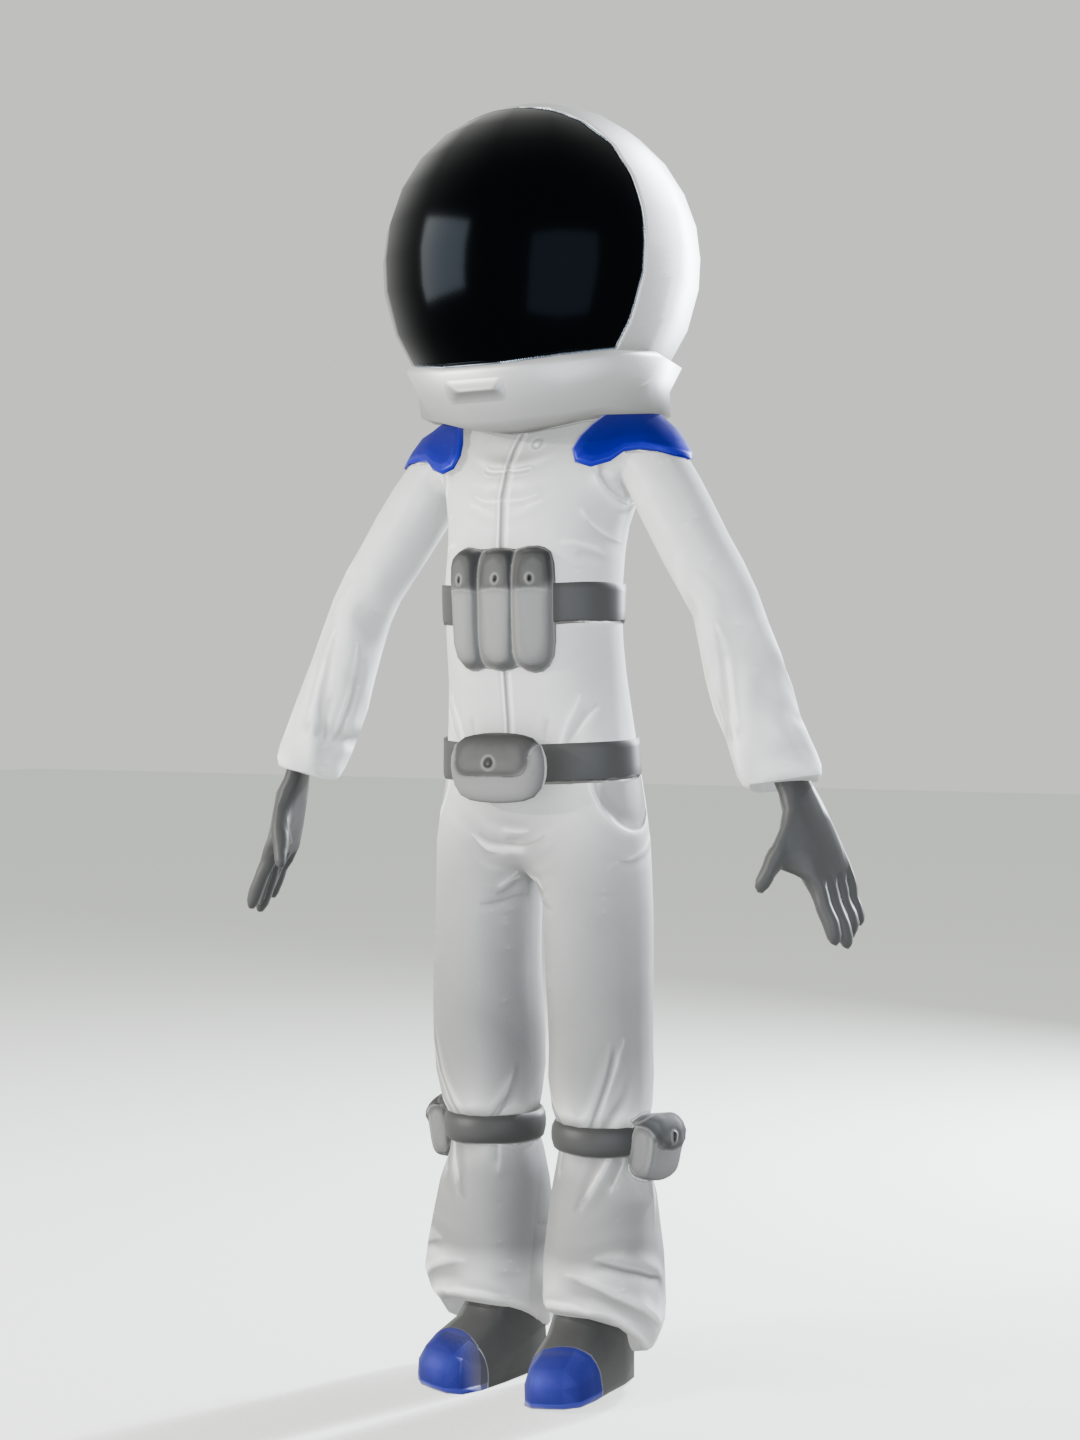
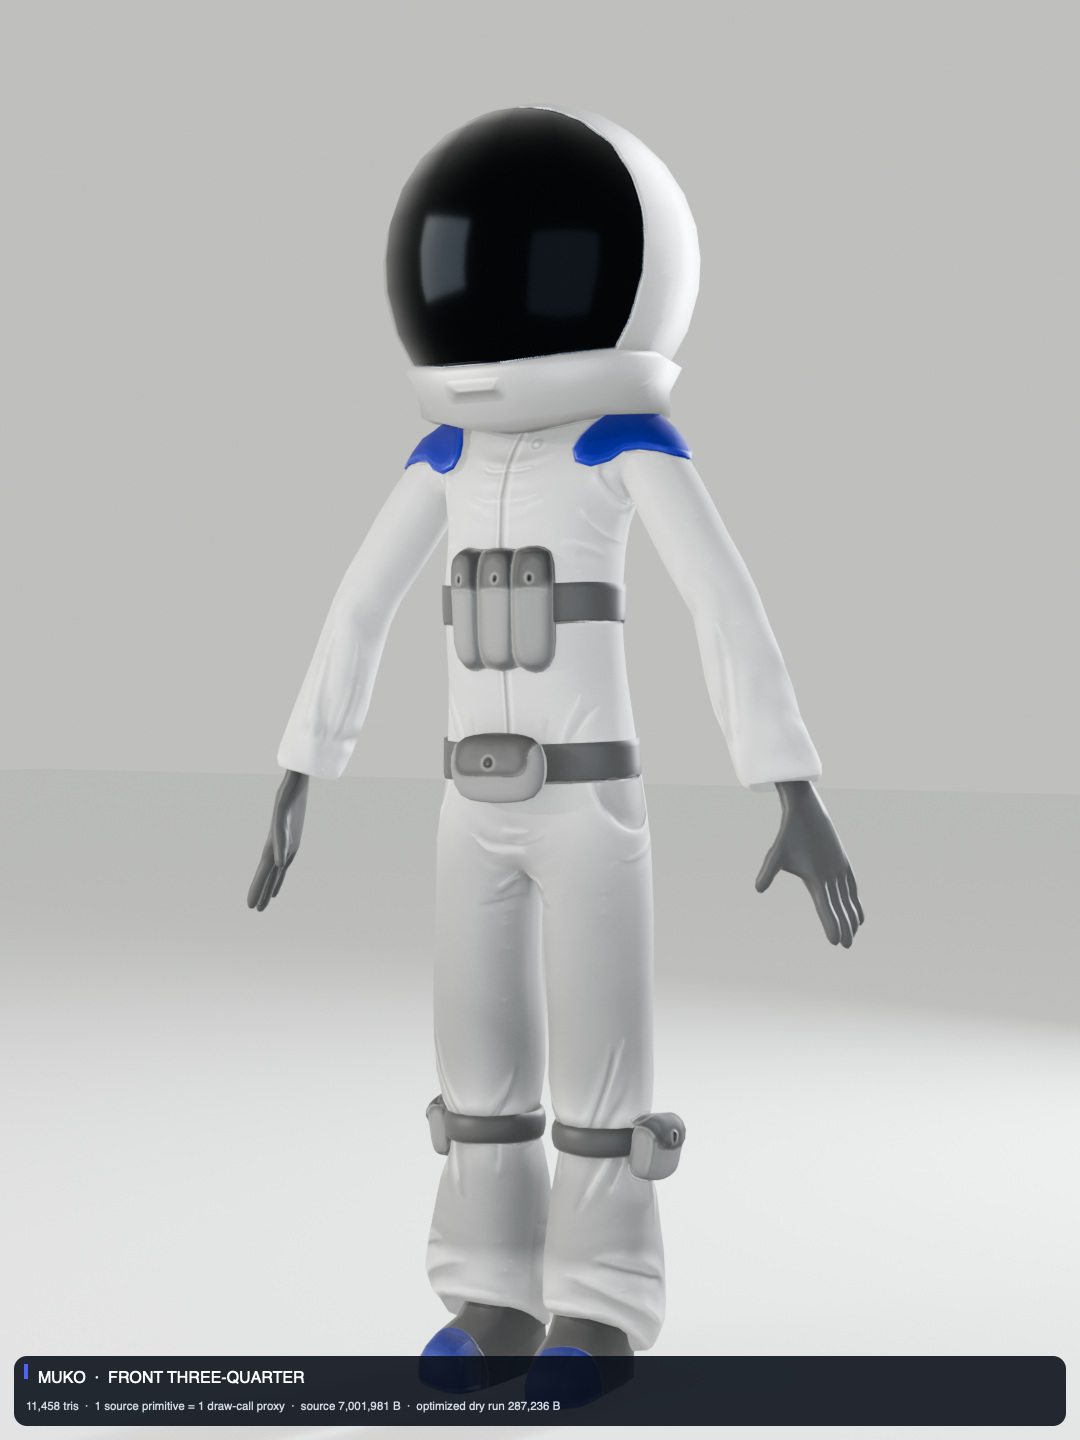
assets: select immersive guide model

Changed region(s): [[0.0, 0.9375, 1.0, 1.0]]

diff --git a/docs/qa/immersive/gate-a-model.md b/docs/qa/immersive/gate-a-model.md
@@ -1,0 +1,78 @@
+# Gate A — guide model selection
+
+**Status:** PASS  
+**Judge:** Codex  
+**Selected source:** Muko_Art, *Astronaut character stylized rigged free model*  
+**Rejected fallback:** Quaternius, *Universal Base Characters — Superhero Male*
+
+## Decision
+
+Muko advances to production adaptation. It is the only candidate that already
+reads as the required abstract metaverse guide in the actual hero and mobile
+crops: the helmet supplies a large graphic head, the opaque visor removes the
+uncanny-face problem, the existing suit accepts the product palette, and the
+chest/belt architecture gives the milestone hardware a credible attachment
+point. It looks like a character with a role, not a dressed-up avatar.
+
+This PASS selects a source mesh. It does **not** approve the contact-sheet
+material treatment as final art, publish a production GLB, or waive the Task 4
+renderer, asset-budget, pose, poster, and fitted-prop gates.
+
+## Scored comparison
+
+Scores use a 1–5 scale, where 5 means the candidate satisfies the criterion
+with little structural invention and 1 means it conflicts with the direction.
+
+| Criterion | Muko | Quaternius | Judgment |
+|---|---:|---:|---|
+| Silhouette | 5 | 2 | Muko's helmet and compact outfitted body read immediately; Quaternius is a generic anatomical base. |
+| Friendly/default read | 4 | 1 | Muko is abstract and approachable; Quaternius's realistic fixed face triggers the uncanny/game-NPC rejection. |
+| Hero/mobile crop strength | 5 | 2 | Muko keeps its identity at both crops; Quaternius becomes a cropped torso and face with no product-world signal. |
+| Material response | 4 | 3 | Muko's visor, shell, and collar accents separate cleanly; both candidates still need production material tuning. |
+| Rig usefulness | 4 | 4 | Both expose the required humanoid semantics; neither supplies authored motion. |
+| Fitted-prop feasibility | 5 | 1 | Muko already has helmet, collar, chest, and belt attachment logic; Quaternius requires a new outfit and helmet. |
+| Light/dark parity | 4 | 2 | Muko keeps readable volume in both scenes; dark-mode rim/visor separation still needs deliberate tuning. |
+| Budget headroom | 5 | 5 | Both clear the raw ceilings; Muko starts lower and avoids the geometry cost of inventing the whole silhouette. |
+| **Total / 40** | **36** | **20** | **Muko wins on rendered merit and lower art-direction risk.** |
+
+## Evidence
+
+- Technical comparison: [`model-inspection.md`](./model-inspection.md)
+- Frozen source metadata: [`source-manifests/muko.json`](./source-manifests/muko.json)
+- Exact source license notice: [`source-manifests/muko-LICENSE.txt`](./source-manifests/muko-LICENSE.txt)
+- Muko hero crop: [`contact-sheets/muko-hero1440.png`](./contact-sheets/muko-hero1440.png)
+- Muko mobile crop: [`contact-sheets/muko-mobile390.png`](./contact-sheets/muko-mobile390.png)
+- Muko light/dark reads: [`contact-sheets/muko-light.png`](./contact-sheets/muko-light.png), [`contact-sheets/muko-dark.png`](./contact-sheets/muko-dark.png)
+- Rejected-candidate hero/mobile evidence: [`contact-sheets/quaternius-hero1440.png`](./contact-sheets/quaternius-hero1440.png), [`contact-sheets/quaternius-mobile390.png`](./contact-sheets/quaternius-mobile390.png)
+
+## Rejection record — Quaternius
+
+The freely available archive does not contain the Regular/Teen model named in
+the original fallback; it supplies the Superhero base instead. That render has
+a realistic fixed face and effectively unclothed silhouette, triggering two
+explicit Gate A rejection conditions: uncanny/game-NPC read and a requirement
+for grafted replacement architecture. Its sound rig and acceptable raw budget
+do not compensate for rebuilding the character's entire visual identity.
+
+## Task 4 obligations carried forward
+
+- Normalize the baked 0.01 conversion hierarchy to the world scene's authored
+  units without breaking skinning.
+- Build all required gestures procedurally; the source contains only a
+  zero-duration bind-pose clip.
+- Resolve the thin white visor-rim seam visible at extreme profile.
+- Author the final opaque graphite visor, porcelain shell, release-blue
+  underlayer, and fitted coral milestone hardware. Headset and pager must read
+  as integrated parts of the suit, never floating or runtime-grafted props.
+- Tune a friendly default pose and legible wave, board-guide, drag-watch,
+  milestone/pager, celebration, and resolution reactions at the real crops.
+- Preserve dark-scene silhouette separation with authored rim and material
+  response; do not rely on exposure alone.
+- Produce and measure the final local GLB: no more than 25k triangles, 30 R3F
+  renderer draw calls, 1.8 MB transferred, and 512–1024px textures.
+- Preserve creator, source URL, CC-BY-4.0 text, original/final hashes, and the
+  modification record in the repository. Per Garvit's product decision, no
+  visible site credit is required.
+
+Gate A is released. Scene 1 may begin from this selected source; the public
+homepage remains blocked until the later composition and world gates pass.

diff --git a/.superpowers/sdd/2026-08-17-immersive-product-world/task-1-report.md b/.superpowers/sdd/2026-08-17-immersive-product-world/task-1-report.md
@@ -1,8 +1,12 @@
 # Task 1 acquisition and inspection report
 
-Status: evidence prepared; Codex selection pending.
+Status: Gate A evidence complete; Codex selected Muko with a 36/40 PASS.
 
 Base: `4364525` in `/Users/garvits/Documents/Side-Projects/Garvit-Portfolio-July`.
+
+## Gate A decision
+
+Codex selected Muko_Art's *Astronaut character stylized rigged free model* at 36/40 and rejected the free Quaternius Superhero Male fallback at 20/40. This is source selection only: final material treatment, fitted hardware, procedural reactions, scale normalization, renderer draw calls, transfer size, posters, and production GLB approval remain Task 4 gates.
 
 ## Commands and versions
 
@@ -26,6 +30,7 @@ Quaternius was downloaded through the official itch.io zero-price Standard uploa
 - Muko: Muko_Art, CC-BY-4.0, canonical model `c8daa753952e454eb3c6195446751e88`. Package metadata lacks a revision/date, so all five source component hashes are the immutable revision record; see `docs/qa/immersive/source-manifests/muko.json`.
[1 lines of base64/hex data omitted]
 - No source archive or candidate GLB was copied into the repository. Temporary preview GLBs stay under `/private/tmp/garvit-guide-source/optim/`.
[1 lines of base64/hex data omitted]
 
 ## Measurements
 
@@ -35,7 +40,7 @@ Quaternius was downloaded through the official itch.io zero-price Standard uploa
 
 ## Render outputs
 
-Seven PNGs per candidate are in `docs/qa/immersive/contact-sheets/`: one unmodified neutral source read plus front-three-quarter, profile, 1440 hero, 390 mobile, light, and dark test-palette views. `model-inspection.md` is their caption/index and carries exact triangle/primitive/source/preview measurements.
+Seven PNGs per candidate are in `docs/qa/immersive/contact-sheets/`: one unmodified neutral source read plus front-three-quarter, profile, 1440 hero, 390 mobile, light, and dark test-palette views. The 12 required comparison PNGs now carry an in-image evidence strip with candidate, view, triangles, source primitive/draw-call proxy, source bytes, and optimized dry-run bytes. Their dimensions and crops are unchanged; neutral-source images remain unlabelled source reads. `model-inspection.md` remains the evidence index.
 
 ## Checks and concerns
 
@@ -44,4 +49,4 @@ Seven PNGs per candidate are in `docs/qa/immersive/contact-sheets/`: one unmodif
 - Both rigs contain the semantic bones needed by the planned adapter.
 - Muko is already an outfitted, helmeted field-agent species. Quaternius free Standard is a realistic-faced superhero mannequin and requires substantially more silhouette work.
 - Quaternius Regular/Teen is not in the free archive. This is a decision-context blocker, not hidden as successful acquisition.
-- No winner was selected and Gate A was not marked PASS.
+- Codex recorded Muko as the 36/40 winner and Gate A as PASS. The exact source-license record remains in `docs/qa/immersive/source-manifests/muko-LICENSE.txt`; attribution placement follows Garvit's recorded product ruling.

diff --git a/DESIGN.md b/DESIGN.md
@@ -847,3 +847,25 @@ create or serve a split worktree during this implementation.
 - Preserve factual content. Never invent metrics, product screenshots, shipped
   status, or case claims. A missing artifact becomes an authored diagram made
   only from verified facts.
+
+### Gate A source selection — PASS (2026-08-17)
+
+- **Selected:** Muko_Art's *Astronaut character stylized rigged free model*
+  (CC-BY-4.0), scored 36/40 against the eight Gate A criteria. Its helmeted
+  graphic silhouette, opaque visor, crop strength, existing suit topology,
+  fitted chest architecture, complete Mixamo semantics, and asset headroom make
+  it the lowest-risk base for the authored metaverse guide.
+- **Rejected:** the free Quaternius Superhero Male fallback, scored 20/40. The
+  advertised Regular/Teen source is not in the free archive; the available
+  realistic-faced, minimally clothed body triggers the uncanny game-NPC and
+  grafted-accessory rejection conditions despite a usable rig and raw budget.
+- This is a source-selection decision, not final-art approval. Task 4 must
+  normalize Muko's baked scale, resolve the extreme-profile visor seam, author
+  every gesture procedurally, fit the headset and coral milestone hardware into
+  the suit, tune light/dark materials and final crops, and prove the production
+  GLB against renderer and transfer ceilings.
+- The exact source notice lives at
+  `docs/qa/immersive/source-manifests/muko-LICENSE.txt`; the source metadata and
+  hash live in `muko.json`. Repository attribution remains the approved policy.
+- The scored rationale and rendered evidence index are authoritative in
+  `docs/qa/immersive/gate-a-model.md`.

diff --git a/docs/qa/immersive/model-inspection.md b/docs/qa/immersive/model-inspection.md
@@ -1,6 +1,6 @@
 # Gate A candidate inspection
 
-Status: technical evidence complete; visual selection is intentionally pending Codex.
+Status: technical evidence complete; Codex selected Muko and released Gate A.
 
 ## Toolchain
 
